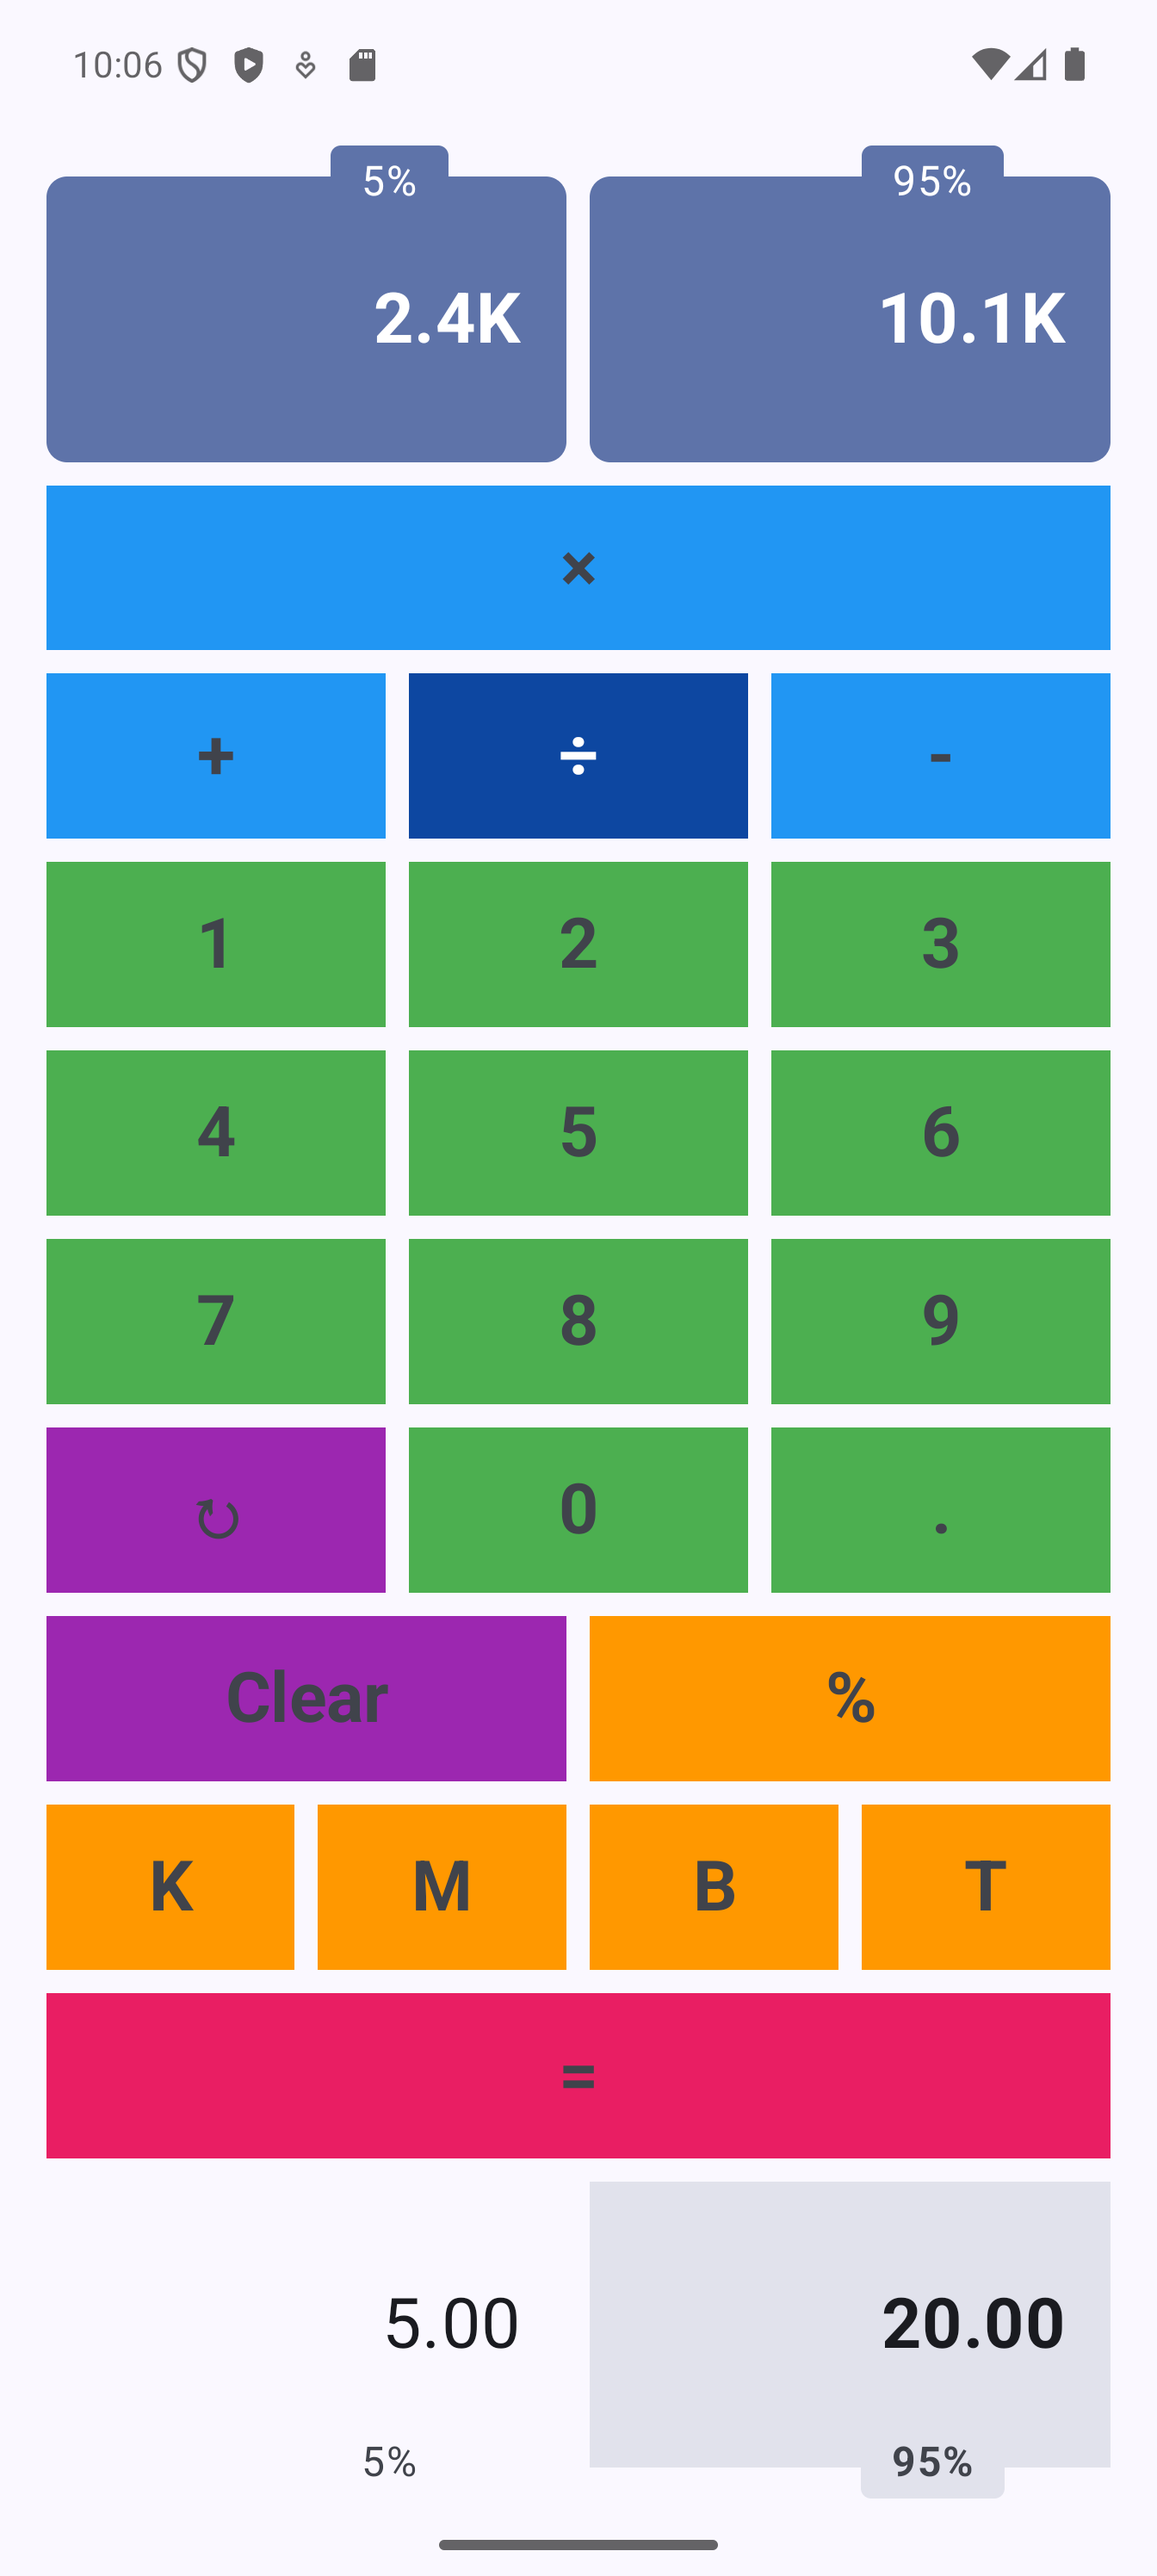
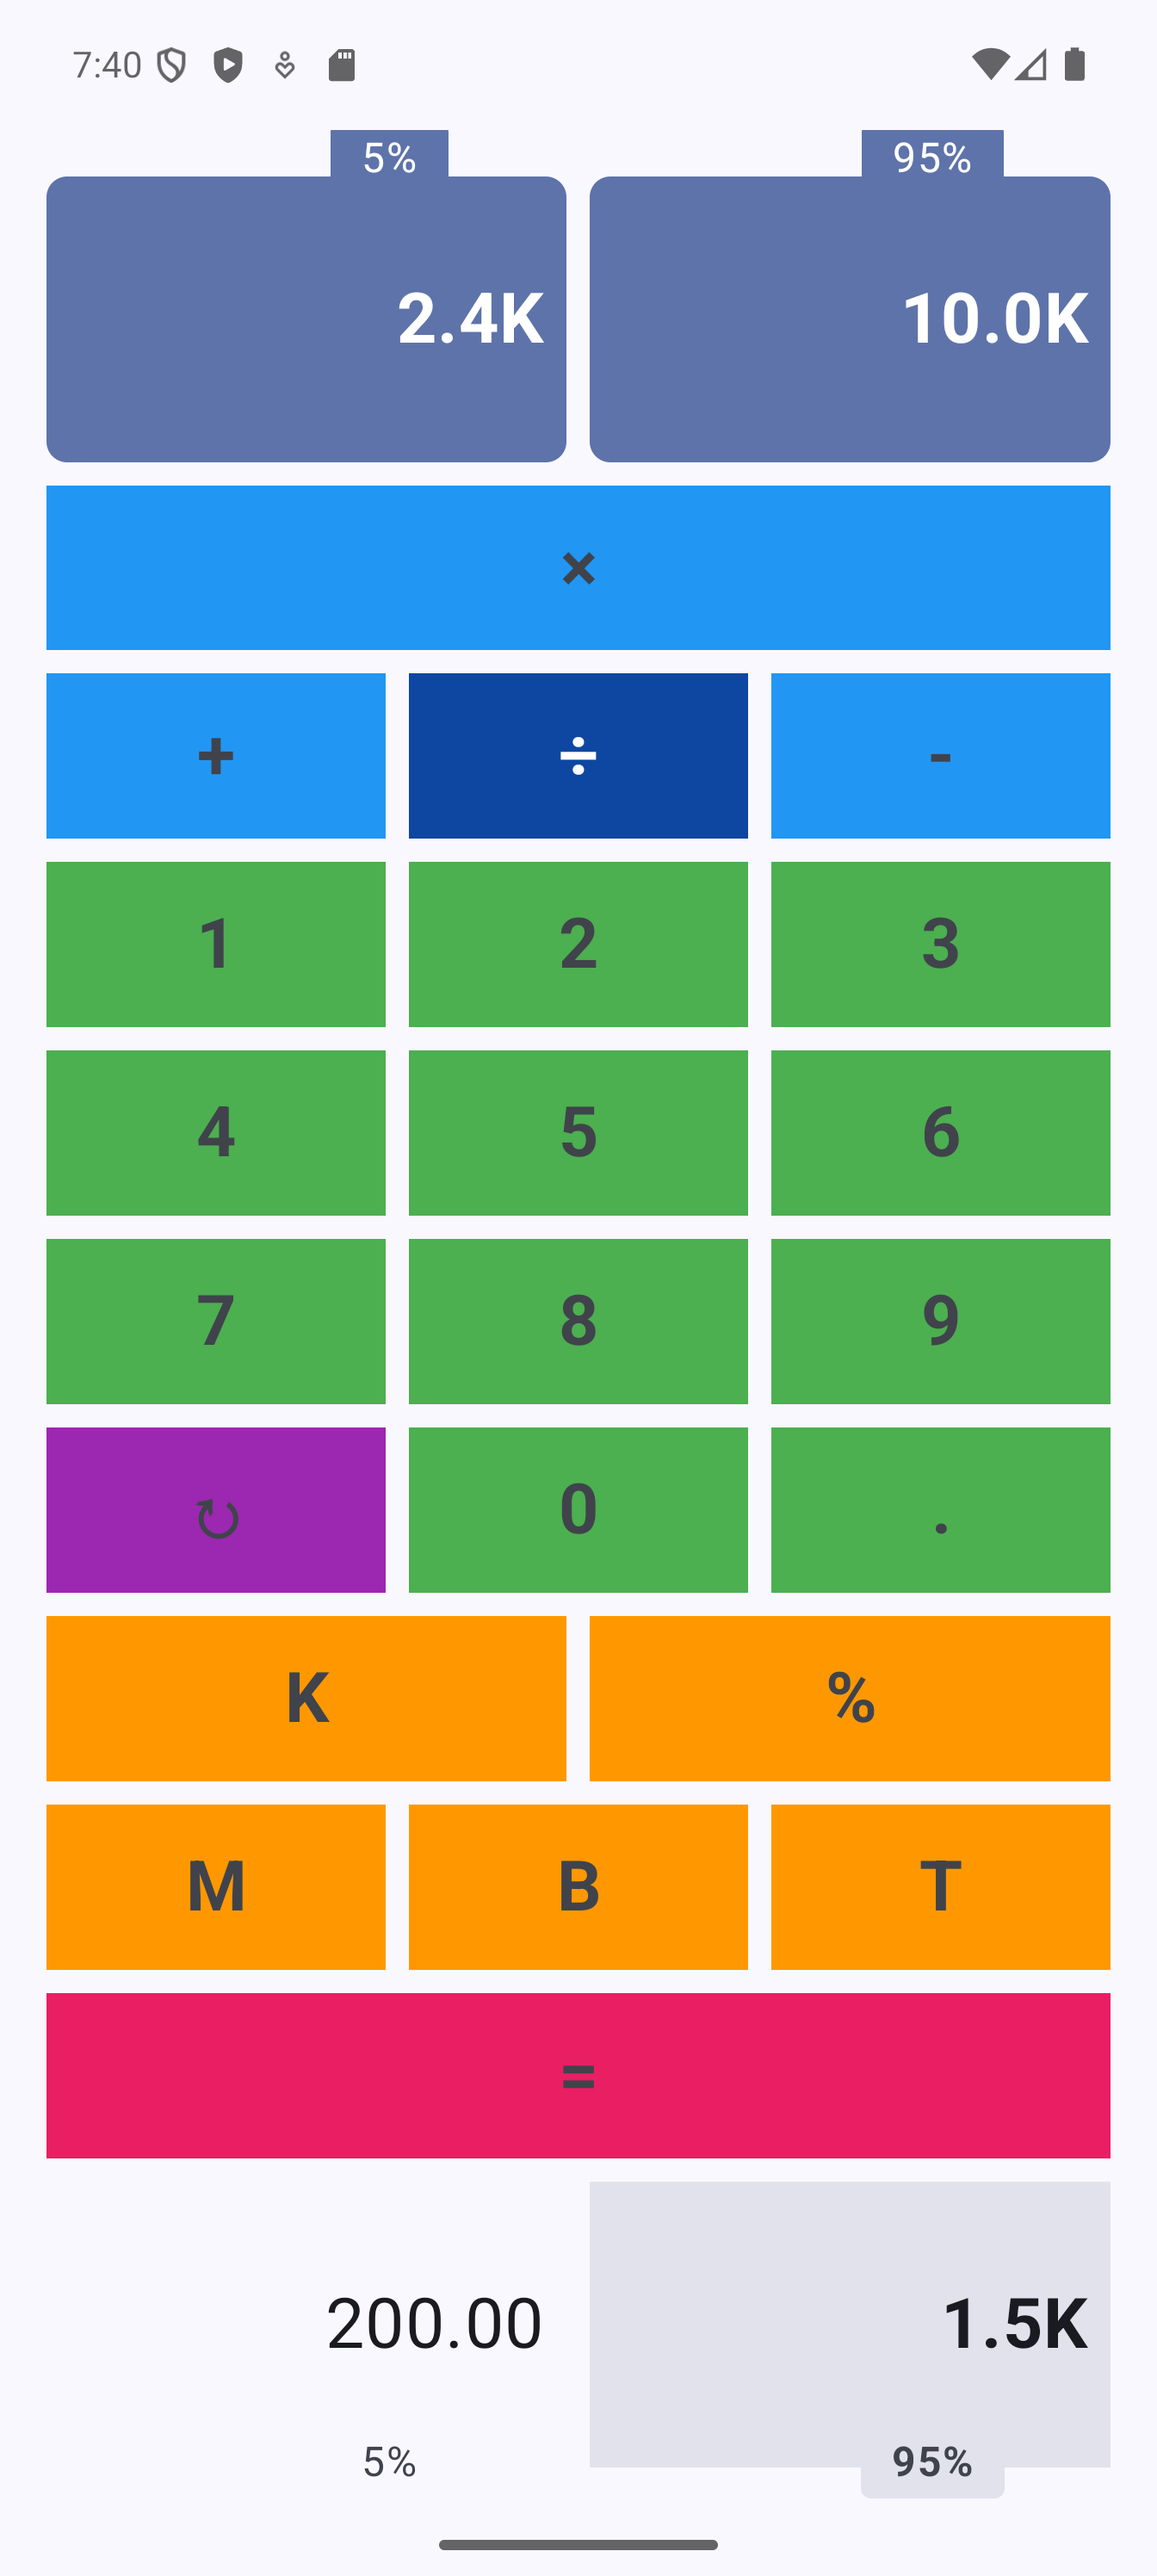
tweak to also change higher field on suffix, take screenshots

diff --git a/app/src/main/java/com/nunosempere/distributioncalculator/MainActivity.kt b/app/src/main/java/com/nunosempere/distributioncalculator/MainActivity.kt
@@ -218,6 +218,7 @@ fun Calculator(modifier: Modifier = Modifier) {
                 "T" -> input_field_low * 1000.0 * 1000.0 * 1000.0 * 1000.0
                 else -> input_field_low
             }
+            input_field_high = max(input_field_low, input_field_high)
             selected_input = 1
         } else {
             input_field_high = when (multiplier) {
@@ -374,7 +375,7 @@ fun Calculator(modifier: Modifier = Modifier) {
                                 .weight(1f)
                                 .background(MaterialTheme.colorScheme.primaryContainer, RoundedCornerShape(8.dp))
                                 .padding(all = basePadding/2),
-                            contentAlignment = Alignment.BottomEnd
+                            contentAlignment = Alignment.CenterEnd
                         ) {
                             Box(
                                 modifier = Modifier
@@ -399,7 +400,7 @@ fun Calculator(modifier: Modifier = Modifier) {
                                 .weight(1f)
                                 .background(MaterialTheme.colorScheme.primaryContainer, RoundedCornerShape(8.dp))
                                 .padding(all = basePadding/2),
-                            contentAlignment = Alignment.BottomEnd
+                            contentAlignment = Alignment.CenterEnd
                         ) {
                             Box(
                                 modifier = Modifier
@@ -689,7 +690,7 @@ fun Calculator(modifier: Modifier = Modifier) {
                                 .clickable { selected_input = 0; on_decimal_input = 0; on_decimal_level = -1; input_field_low = 0.0 }
                                 .padding(all = basePadding/2)
                                 .zIndex(1f),
-                            contentAlignment = Alignment.BottomEnd
+                            contentAlignment = Alignment.CenterEnd
                         ) {
                             Text(
                                 text = toPrettyString(input_field_low),
@@ -722,7 +723,7 @@ fun Calculator(modifier: Modifier = Modifier) {
                                 .clickable { selected_input = 1; on_decimal_input = 0; on_decimal_level = -1; input_field_high = 0.0 }
                                 .padding(all = basePadding/2)
                                 .zIndex(1f),
-                            contentAlignment = Alignment.BottomEnd
+                            contentAlignment = Alignment.CenterEnd
                         ) {
                             Text(
                                 text = toPrettyString(input_field_high),
